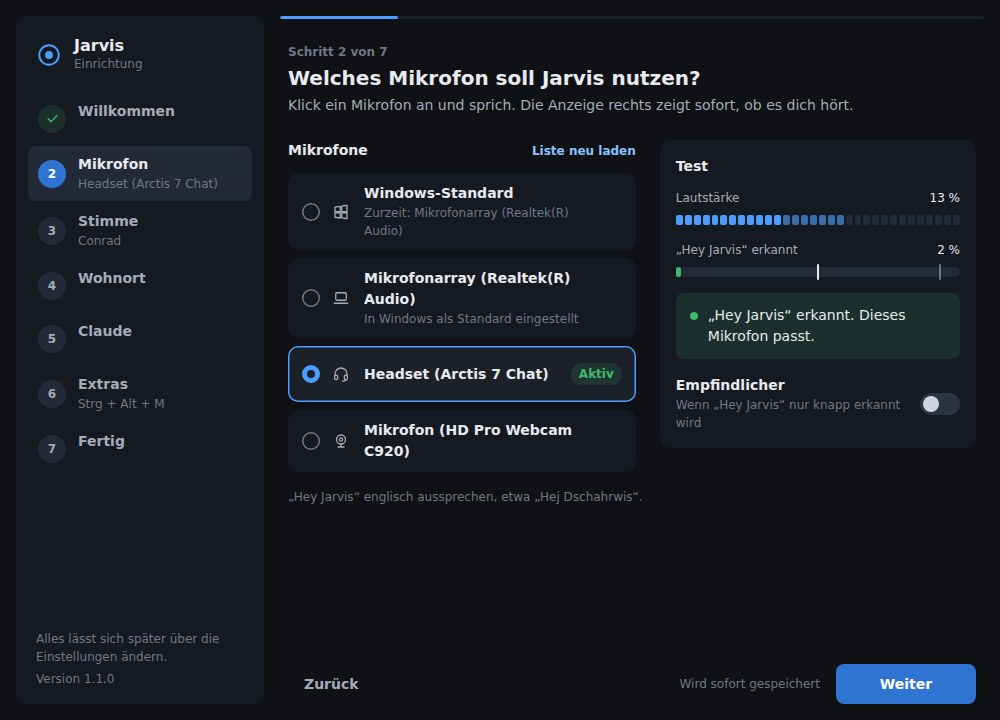
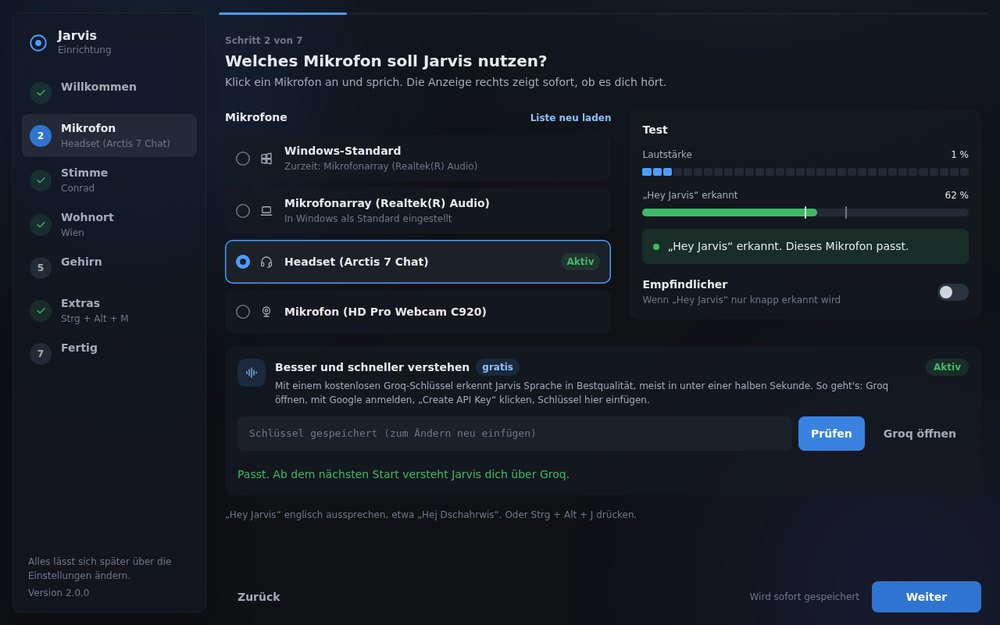
Anleitung und README für Jarvis 2, neue Bilder
ANLEITUNG.md in vier Schritten: EXE, gratis Groq-Schlüssel,
ElevenLabs Starter, Schlüssel in der Einrichtung. Dazu Bedienung im
Hintergrund (Strg+Alt+J, Anzeige oben, Fenster), Befehlsliste und
Hilfe bei Problemen. README beschreibt den neuen Ablauf, Kosten,
Einstellungen und die Windows-Einbindung. Bilder zeigen das neue
HUD-Fenster und die Einrichtung mit Groq und Premium-Stimmen.

Claude-Session: https://claude.ai/code/session_01SmtJ1qc8wnYu9sLYM9z56c

diff --git a/README.md b/README.md
@@ -1,150 +1,107 @@
 # Jarvis
 
-Dein eigener Sprachassistent wie bei Iron Man: Du sagst "Hey Jarvis", sprichst deinen Befehl, Claude Code erledigt ihn auf deinem PC, und Jarvis antwortet mit einer menschlichen Stimme. Dazu gibt es ein aufgeräumtes Fenster mit Unterhaltung.
+Dein eigener J.A.R.V.I.S. für Windows: Du sagst „Hey Jarvis“ oder drückst Strg + Alt + J, sprichst deinen Befehl, und Jarvis erledigt ihn auf deinem PC. Er antwortet wie der Butler aus Iron Man, mit einer menschlichen Stimme. Er läuft unsichtbar im Hintergrund, mit einer kleinen Anzeige oben am Bildschirm und einem großen HUD-Fenster auf Wunsch.
 
-**Schnellstart:** [JarvisSetup.exe](https://github.com/georghatzmann-bit/vanity-/releases/latest/download/JarvisSetup.exe) laden, doppelklicken, die Einrichtung durchklicken. Mehr in der [ANLEITUNG.md](ANLEITUNG.md).
+**Schnellstart:** [JarvisSetup.exe](https://github.com/georghatzmann-bit/vanity-/releases/latest/download/JarvisSetup.exe) laden, doppelklicken, die Einrichtung durchklicken. Schritt für Schritt in der [ANLEITUNG.md](ANLEITUNG.md).
 
 ![Das Jarvis-Fenster](docs/bilder/hauptfenster.jpg)
 
 ```
-Mikrofon → "Hey Jarvis" (openWakeWord, lokal)
-         → Sprache zu Text (faster-whisper, lokal)
-         → schnelle Befehle direkt (Uhrzeit, Lautstärke, Musik, Stopp)
-         → alles andere: Claude Code (dein Claude Pro Abo), Antwort wird gestreamt
-         → Jarvis-Stimme (Microsoft Neural über edge-tts, gratis), Satz für Satz
-         → Jarvis-Fenster, Tray-Icon, Alexa über Home Assistant
+Mikrofon → "Hey Jarvis" (openWakeWord, lokal) oder Strg+Alt+J
+         → Satzende per Silero VAD (lokal)
+         → Sprache zu Text: Groq Whisper large-v3-turbo (gratis Schlüssel), Ersatz faster-whisper lokal
+         → Sofort-Befehle direkt: Programme öffnen/schließen/installieren, Gaming-Modus, Lautstärke, Musik, Uhrzeit
+         → alles andere: Claude Code (dein Claude-Pro-Abo), Antwort wird gestreamt
+         → Stimme: ElevenLabs (Premium, Streaming), Ersatz Microsoft Neural (gratis), offline Piper
+         → Anzeige oben am Bildschirm, HUD-Fenster, Tray-Symbol, Alexa über Home Assistant
 ```
 
 ## Was Jarvis kann
 
-- **Sprache und Tippen:** "Hey Jarvis" plus Befehl, oder auf den Kreis im Fenster klicken (dann hört Jarvis sofort zu), oder rechts unten tippen. Beispiel-Befehle zum Anklicken stehen in der leeren Unterhaltung.
-- **Schnelle Antworten:** Jarvis spricht den ersten Satz, während Claude noch am Rest schreibt. Braucht Claude länger, sagt Jarvis "Einen Moment, Sir."
-- **Sofort-Befehle ohne Claude:** Uhrzeit, Datum, lauter/leiser, Musik pausieren/weiter/nächstes Lied, "Stopp", "Mikrofon aus", "Neue Unterhaltung".
-- **Unterbrechen:** "Hey Jarvis" unterbricht eine laufende Antwort, der Stopp-Knopf, Esc und ein Klick auf den Kreis auch.
-- **PC-Aufgaben über Claude:** Programme und Webseiten öffnen, Dateien finden, Websuche, Wetter, Bildschirm vorlesen, Erinnerungen, Gaming-Modus, Morgen-Briefing.
-- **Erst fragen:** Löschen (nur in den Papierkorb), Installieren und Nachrichten verschicken macht Jarvis erst nach deinem "Ja".
-- **Alexa und Smart Home** über Home Assistant (optional).
-- **Jarvis-Fenster** mit Zuständen (bereit, hört zu, denkt nach, spricht, Mikrofon aus), Unterhaltung, Wetter, Uhr, Tray-Icon und Autostart.
-- **Grafische Einrichtung** beim ersten Start: Mikrofon mit Pegel und Hey-Jarvis-Test (zeigt, welches Mikrofon Windows als Standard nimmt), Stimmen zum Anhören, Wohnort mit Wetter-Vorschau, Claude-Prüfung mit Installieren/Anmelden-Knopf und Claudes genauer Meldung, Antwort-Tempo, Stumm-Taste, Autostart, Alexa. Jeder Schritt speichert sofort. Später über "Einstellungen" oben rechts.
+- **Immer da, nie im Weg:** Autostart unsichtbar (nur das Symbol neben der Uhr). Beim Zuhören und Sprechen erscheint oben in der Mitte eine kleine Anzeige, durchklickbar und ohne den Fokus zu stehlen. Bei Vollbild-Spielen und im Gaming-Modus bleibt sie weg.
+- **Wie Jarvis aus dem Film:** kurz, ruhig, trockener britischer Humor, kein „Als KI …“, kein „Möchtest du, dass ich …?“. Für dich ist er einfach Jarvis, Claude bleibt unsichtbar.
+- **Handelt statt zu fragen:** Programme öffnen, schließen und installieren (winget), Windows einstellen, Dateien ordnen, im Web nachsehen. Nur vor Löschen (Papierkorb), Deinstallieren, Herunterfahren, Senden in deinem Namen und Bezahlen fragt er einmal nach. Administratorrechte holt er sich über die normale Windows-Abfrage.
+- **Sofort-Befehle ohne Claude** (unter einer Sekunde): „Öffne Spotify“ (Startmenü-Index), „Schließ Discord“, „Installier mir Steam“ (im Hintergrund, mit Ansage), „Gaming-Modus an“, „Zeig dich“, „Sperr den PC“, „Öffne Downloads“, Lautstärke, Musik, Uhrzeit, Datum, „Stopp“.
+- **Gaming-Modus:** Energieplan Höchstleistung, ausgewählte Programme zu, Jarvis selbst mit niedriger Priorität und ohne Einblendungen.
+- **Schnell:** Datum und Uhrzeit gehen mit jeder Nachricht an Claude (kein Umweg), `--effort low`, der erste Satz wird gesprochen, während Claude noch schreibt, ElevenLabs beginnt nach 0,25 s Ton zu sprechen.
+- **HUD-Fenster:** animierter Kern (Wellen beim Zuhören, Radar beim Nachdenken, Stimm-Kranz beim Sprechen), Untertitel, System-Anzeige, Erinnerungen von heute, Verlauf, Gaming-Schalter.
+- **Grafische Einrichtung:** Mikrofon mit Pegel und Hey-Jarvis-Test, Groq-Schlüssel, Premium-Stimmen mit Hörproben (auch deutsche Stimmen aus der ElevenLabs-Bibliothek), Wohnort mit Wetter, Gehirn-Prüfung, Stumm-Taste, Autostart, Alexa.
+- **Selbsttest** (`werkzeuge\Selbsttest.bat`) und Protokoll (`logs\jarvis.log`).
 
-| Einrichtung: Mikrofon | Einrichtung: fertig |
+| Einrichtung: Mikrofon | Einrichtung: Stimme |
 |---|---|
-| ![Mikrofon wählen](docs/bilder/einrichtung-mikrofon.jpg) | ![Zusammenfassung](docs/bilder/einrichtung-fertig.jpg) |
-- **Selbsttest** (`werkzeuge\Selbsttest.bat`) und Logdatei (`logs\jarvis.log`).
+| ![Mikrofon wählen](docs/bilder/einrichtung-mikrofon.jpg) | ![Premium-Stimmen](docs/bilder/einrichtung-stimme.jpg) |
 
-## Die Startdateien
+## Kosten
 
-Im Alltag brauchst du nur **`Jarvis.bat`** oder das Jarvis-Symbol auf dem Desktop. `Jarvis.bat` installiert beim ersten Mal alles (und nach Updates, wenn sich die Pakete geändert haben), legt das Desktop-Symbol an und öffnet beim allerersten Start die Einrichtung.
-
-Für Sonderfälle liegen im Ordner `werkzeuge`:
-
-| Datei | Was sie macht |
-|---|---|
-| `Einrichtung.bat` | Einrichtung öffnen (wie "Einstellungen" im Fenster) |
-| `Selbsttest.bat` | Prüft alles und sagt, was zu tun ist |
-| `Mikrofon-Test.bat` | Mikrofone, Pegel und "Hey Jarvis"-Erkennung live in der Konsole |
-| `Claude-Test.bat` | Zeigt, welches Claude-Modell antwortet |
-| `Tippen.bat` | Tippen statt sprechen, im Konsolenfenster |
-| `Konsole.bat` | Sprachsteuerung ohne Fenster |
-| `Neu-installieren.bat` | Alle Pakete frisch installieren |
-
-`Jarvis.bat` versteht auch alle Optionen direkt, zum Beispiel `Jarvis.bat --silent` (nicht vorlesen) oder `Jarvis.bat -v` (alle Details).
-
-## Jarvis reagiert nicht?
-
-Öffne oben rechts die Einstellungen, Schritt Mikrofon (oder `werkzeuge\Mikrofon-Test.bat`). Das zeigt einen Live-Pegel und ob "Hey Jarvis" ankommt:
-
-- **Der Pegel bleibt bei 0:** Windows blockiert das Mikrofon. Öffne *Einstellungen > Datenschutz und Sicherheit > Mikrofon* und schalte "Desktop-Apps den Zugriff auf das Mikrofon erlauben" ein.
-- **Der Pegel bewegt sich kaum, wenn du sprichst:** Es ist das falsche Mikrofon. Wähle in der Einrichtung ein anderes.
-- **Der Pegel bewegt sich, aber "Hey-Jarvis" bleibt niedrig:** Sprich "Hey Jarvis" englisch aus ("Hey Dschaarwis"). Wenn der beste Wert bei etwa 0.3 bis 0.5 landet, schalte in der Einrichtung "empfindlicher" ein (das setzt `threshold = 0.35`).
-
-Im Konsolenfenster zeigt Jarvis "fast erkannt: 0.38" an, wenn er dich knapp nicht verstanden hat.
-
-## Claude lehnt ab?
-
-Manchmal schlägt Claudes Sicherheitsfilter fälschlich an, sogar bei "hi". Jarvis fängt das so ab:
-
-1. Claude Code startet für Jarvis ohne deine persönlichen Skills, Plugins und CLAUDE.md-Dateien (`isolated = true`), und Jarvis bekommt nur die Werkzeuge, die er braucht.
-2. Lehnt ein Modell ab, versucht Jarvis automatisch das nächste aus `models` (Sonnet, Haiku, Opus). Im Fenster steht dann zum Beispiel "sonnet hat abgelehnt, versuche haiku".
-3. Lehnen alle ab, versucht Jarvis dieselben Modelle mit einer ganz kurzen Persönlichkeit ("einfacher Modus").
-4. Was funktioniert hat, merkt sich Jarvis zwölf Stunden lang, damit die nächste Antwort nicht wieder alle Versuche braucht.
-5. Geht gar nichts, sagt Jarvis es auf Deutsch. `werkzeuge\Claude-Test.bat` zeigt dann eine Tabelle, welches Modell mit und ohne deine Einstellungen antwortet.
-
-Auch andere Probleme sagt Jarvis klar an: Pro-Kontingent aufgebraucht, nicht angemeldet, kein Internet, Claude überlastet.
+- **Claude-Pro-Abo:** das Gehirn.
+- **Groq:** gratis (großzügiges Tageslimit, darüber übernimmt der eigene PC).
+- **ElevenLabs:** optional, ab etwa 6 $ im Monat (Starter). Ohne spricht die gratis Microsoft-Stimme.
 
 ## Anpassen
 
 Das Wichtigste stellst du in der Einrichtung ein. Alles steht in `config.toml` (Vorlage mit Erklärungen: `config.example.toml`):
 
-- **Wohnort** für das Wetter: `ort` unter `[ich]`.
-- **Stimme:** `voice` unter `[tts]`, z. B. `de-DE-KillianNeural` oder `de-DE-FlorianMultilingualNeural`. Mit `rate` und `pitch` klingt sie schneller, langsamer, tiefer.
-- **Empfindlichkeit:** `threshold` unter `[wakeword]`.
-- **Mikrofon:** am einfachsten in der Einrichtung.
-- **Stumm-Taste:** `hotkey` unter `[mute]`, z. B. `"f9"`. Jarvis schluckt die Tastenkombination, sie tippt also nichts ins offene Programm.
-- **Genauigkeit:** `model = "medium"` unter `[stt]` versteht besser, ist aber langsamer.
-- **"Einen Moment, Sir":** `ack_after_seconds` unter `[answer]` (0 = nie).
-- **Fenster:** `[gui]`, z. B. `close_to_tray = true`, damit Schließen Jarvis nur ins Tray-Icon versteckt.
-- **Gaming-Modus:** `close_apps` unter `[gaming]`.
-- **Persönlichkeit:** `jarvis_home/CLAUDE.md` beschreibt, wie Jarvis redet und welche Befehle er kennt.
+- `[stt]` `groq_key`, `engine = "auto" | "groq" | "lokal"`
+- `[tts]` `engine = "elevenlabs" | "edge" | "windows"`, `elevenlabs_key`, `elevenlabs_voice`, `elevenlabs_model`
+- `[mute]` `hotkey` (Stumm), `listen_hotkey` (Zuhören, Standard Strg+Alt+J)
+- `[listen]` `silence_seconds` (Wartezeit nach dem letzten Wort), `vad`
+- `[gui]` `start_hidden`, `close_to_tray`, `overlay`
+- `[brain]` `models`, `effort`, `disallowed_tools`
+- `[gaming]` `close_apps`, `power_plan`
+- `jarvis_home/CLAUDE.md`: Jarvis' Persönlichkeit und seine Befehle
+
+Ältere `config.toml` werden beim Start einmalig angepasst (`[intern] config_version`).
 
 ## Jarvis-Befehle für Claude
 
-Claude steuert die Jarvis-Extras über kleine Befehle, die du auch selbst ausprobieren kannst (im Jarvis-Ordner, `"%LOCALAPPDATA%\Jarvis\venv\Scripts\python.exe" -m jarvis.tool hilfe`):
+```
+oeffnen "<name>"   schliessen "<name>"   programme [filter]
+installieren "<name|winget-id>"          deinstallieren <id>  (erst nach "Ja")
+admin "<PowerShell-Befehl>"              (Windows fragt; Löschen & Co. erst nach "Ja")
+papierkorb "<pfad>"                      (erst nach "Ja")
+erinnern "in 20 minuten" "Tee"   erinnerungen   erinnerung-loeschen <id>
+medien pause|weiter|naechstes|voriges   lautstaerke 30|lauter|leiser|stumm
+bildschirm   gaming an|aus   alexa-sagen <raum> "<text>"   smarthome geraete|an|aus|status
+```
 
-```
-erinnern "in 20 minuten" "Tee"     erinnerungen      erinnerung-loeschen <id>
-medien pause|weiter|naechstes|voriges                 lautstaerke lauter|leiser|stumm
-bildschirm                          gaming an|aus
-papierkorb "<pfad>"                 installieren <winget-id>     (beide erst nach "Ja")
-alexa-sagen <raum> "<text>"         alexa-geraete
-smarthome geraete|an|aus|status <gerät>
-```
+Zum Ausprobieren im Jarvis-Ordner: `"%LOCALAPPDATA%\Jarvis\venv\Scripts\python.exe" -m jarvis.tool hilfe`
 
 ## Sicherheit
 
-- Claude darf ohne Nachfrage Programme öffnen, Dateien lesen und schreiben und im Web suchen.
-- Löschen, Formatieren, Herunterfahren und direktes Installieren sind unter `disallowed_tools` gesperrt. Stattdessen gibt es `papierkorb` und `installieren`, die erst etwas tun, wenn dein letzter Satz ein "Ja" war.
-- Der Web-Eingang für Home Assistant ist aus, bis du ihn mit einem eigenen Token einschaltest.
-- Wake Word und Spracherkennung laufen lokal. Nur der erkannte Text geht an Claude.
+- Löschen, Formatieren, Herunterfahren und Deinstallieren sind für Claude direkt gesperrt (`disallowed_tools`). Dafür gibt es `papierkorb` und `deinstallieren`, die erst nach deinem „Ja“ etwas tun. Auch `admin` verlangt bei solchen Befehlen ein „Ja“.
+- Ganze Laufwerke, dein Benutzerordner sowie Desktop, Dokumente und Downloads selbst kommen nie in den Papierkorb.
+- Die Einrichtung öffnet nur die Anmeldeseiten von ElevenLabs, Groq und Claude.
+- Wake Word und Satzende laufen lokal. An Groq geht nur die Aufnahme nach „Hey Jarvis“, an Claude nur der erkannte Text.
 
 ## Windows-Details
 
-- Die Python-Umgebung liegt unter `%LOCALAPPDATA%\Jarvis\venv`, nicht im Jarvis-Ordner. So lädt OneDrive nicht 1 GB hoch und sperrt beim Installieren keine Dateien.
-- Es läuft immer nur ein Jarvis. Ein zweiter Start meldet "Jarvis läuft schon". Nach der Einrichtung wartet der neue Jarvis kurz, bis der alte zu ist.
-- Die Installation (`werkzeuge\installieren.ps1`) schreibt alles nach `%LOCALAPPDATA%\Jarvis\installation.log`. Sie legt `Jarvis.lnk` auf dem Desktop und im Startmenü an (minimiert gestartet, damit kein Konsolenfenster aufblitzt).
-- Fällt das Mikrofon aus (abgesteckt, Ruhezustand), liest Jarvis die Geräteliste neu ein und versucht es immer wieder. Ist dein Mikrofon weg, nimmt er so lange das Windows-Standardmikrofon.
-- Startet Claude ein Programm (etwa Notepad), wartet Jarvis nicht, bis es wieder zu ist.
-- Eine alte `config.toml` behält deine Einstellungen. Die Listen `allowed_tools` und `disallowed_tools` werden mit den neuen Vorgaben zusammengelegt, damit neue Sperren auch bei dir greifen.
-- Windows-Pfade in `config.toml` in einfache Anführungszeichen setzen: `claude_path = 'C:\Users\Georg\...'`.
-
-## Grenzen
-
-- Eine Antwort von Claude dauert ein paar Sekunden, weil jede Anfrage übers Internet geht. Sofort-Befehle sind sofort da.
-- Claude Pro hat ein Nutzungslimit pro 5 Stunden.
-- Ohne Internet hört Jarvis zu und erledigt Sofort-Befehle, Claude und die Microsoft-Stimme gehen dann nicht (Jarvis nimmt dann die Windows-Stimme).
-- Die echte Filmstimme ist nicht dabei. Conrad klingt aber sehr nach Butler.
+- Installiert nach `%LOCALAPPDATA%\Programs\Jarvis`, die Python-Umgebung liegt unter `%LOCALAPPDATA%\Jarvis\venv`. Keine Admin-Rechte nötig.
+- Start über `pythonw.exe Jarvis.pyw`: kein Konsolenfenster, eigenes Symbol, eigene Taskleisten-Gruppe (`Jarvis.Assistent`). Autostart über `HKCU\...\Run` mit `--hintergrund`.
+- Es läuft immer nur ein Jarvis. Ein zweiter Start holt das Fenster des laufenden nach vorn.
+- Der Build (`.github/workflows/setup-exe.yml`) installiert die EXE auf einem echten Windows still zur Probe, prüft Startmenü-Suche, die Anzeige, den unsichtbaren Start, den zweiten Start und die Deinstallation, und veröffentlicht sie dann als Release.
 
 ## Für Entwickler
 
 ```
 jarvis/
-  __main__.py     Start, Modi (Fenster, Konsole, Text, Tests), erster Start -> Einrichtung
-  setup_wizard.py Einrichtung (Python-Seite von gui/web/setup.html)
-  assistant.py    Kern: Befehl annehmen, Sofort-Befehle, Claude fragen, sprechen
+  __main__.py     Start, Modi (Fenster, Hintergrund, Konsole, Text, Tests), erster Start -> Einrichtung
+  assistant.py    Kern: Befehl annehmen, Sofort-Befehle, Claude fragen, sprechen, Gaming-Modus
   brain.py        Claude Code headless mit Streaming, Modell-Fallback, Fehlerarten
-  voice.py        Sprachschleife: Wake Word, Aufnahme, Unterbrechen
-  audio.py stt.py tts.py text.py   Mikrofon, Whisper, Stimme, Satz-Zerlegung
-  intents.py      Sofort-Befehle ohne Claude
-  tool.py         python -m jarvis.tool ... (für Claude)
-  pc.py reminders.py homeassistant.py server.py   PC-Aktionen, Erinnerungen, Alexa, Web-Eingang
+  apps.py         Programme: Startmenü-Index, bekannte Apps, winget, Schließen
+  voice.py audio.py stt.py   Sprachschleife, Mikrofon, Silero VAD, Groq und faster-whisper
+  tts.py elevenlabs.py       Stimme: ElevenLabs-Streaming, Microsoft, Piper, Windows
+  overlay.py      Anzeige oben am Bildschirm (Layered Window, Pillow)
+  desktop.py      Windows-Einbindung: AppUserModelID, Symbol, zweiter Start
+  intents.py tool.py pc.py reminders.py homeassistant.py server.py
   gui/app.py      Fenster (pywebview), Api für die Seite, Ereignis-Brücke
-  gui/web/        base.css                        gemeinsame Farben, Schrift, Knöpfe
-                  index.html app.js style.css     Hauptfenster (Kreis als Canvas)
+  gui/web/        index.html app.js style.css     HUD-Fenster (Kern als Canvas)
                   setup.html setup.js setup.css   Einrichtung (Api: setup_wizard.SetupApi)
-                  Beide Seiten laufen auch im normalen Browser als Demo (ohne Jarvis-Kern).
-  tray.py autostart.py selftest.py simulate.py logsetup.py
+                  Beide Seiten laufen auch im normalen Browser als Demo.
+  setup_wizard.py tray.py autostart.py selftest.py simulate.py logsetup.py
 jarvis_home/CLAUDE.md   Jarvis' Persönlichkeit
-tests/                  python -m pytest
+installer/      Inno-Setup-Skript und Windows-Proben für den Build
+tests/          python -m unittest discover -s tests
 ```
 
-Die Tests laufen ohne Mikrofon und ohne echtes Claude (`tests/helpers.py` enthält ein nachgebautes `claude`). `simulate.py` spielt die ganze Kette mit erzeugter Sprache durch, das nutzt auch der Selbsttest.
+Die Tests laufen ohne Mikrofon, ohne echtes Claude und ohne Internet (nachgebautes `claude`, ElevenLabs und Groq).

diff --git a/ANLEITUNG.md b/ANLEITUNG.md
@@ -1,96 +1,91 @@
-# Jarvis in 3 Schritten
+# Jarvis 2 in 4 Schritten
 
-Diese Anleitung ist für dich, Georg. Du brauchst nur einen Doppelklick.
+Diese Anleitung ist für dich, Georg. Jarvis läuft danach unsichtbar im Hintergrund und ist immer da, wenn du „Hey Jarvis“ sagst.
 
-## 1. JarvisSetup.exe laden
+## 1. JarvisSetup.exe laden und starten
 
-1. Falls ein älteres Jarvis läuft: unten rechts neben der Uhr Rechtsklick auf das Jarvis-Symbol > Jarvis beenden.
+1. Falls ein älteres Jarvis läuft: unten rechts neben der Uhr Rechtsklick auf das Jarvis-Symbol > **Jarvis beenden**.
 2. Diese Datei laden: https://github.com/georghatzmann-bit/vanity-/releases/latest/download/JarvisSetup.exe
+3. Doppelklick auf `JarvisSetup.exe`. Fragt Windows nach („Der Computer wurde durch Windows geschützt“): **Weitere Informationen** > **Trotzdem ausführen**. Das kommt, weil der Installer nicht mit einem gekauften Zertifikat signiert ist.
+4. Den Haken bei **„Jarvis mit Windows starten“** drin lassen. Admin-Rechte braucht der Installer nicht. Beim ersten Mal dauert er ein paar Minuten.
 
-## 2. Doppelklick auf JarvisSetup.exe
+Deine Einstellungen von vorher bleiben erhalten.
 
-Der Installer richtet alles selbst ein: Python, Spracherkennung, Stimmen, Desktop-Symbol und auf Wunsch den Autostart. Admin-Rechte braucht er nicht. Beim ersten Mal dauert das ein paar Minuten.
+## 2. Gratis-Schlüssel für die Spracherkennung (Groq, 2 Minuten)
 
-Fragt Windows nach, weil die Datei aus dem Internet kommt: Beim blauen Fenster "Der Computer wurde durch Windows geschützt" auf **"Weitere Informationen"** und dann **"Trotzdem ausführen"** klicken. Das kommt, weil der Installer nicht mit einem gekauften Zertifikat signiert ist.
+Damit versteht Jarvis dich viel besser und schneller. Kostet nichts.
 
-Deinstallieren geht wie bei jedem Programm: Windows-Einstellungen > Apps > Jarvis > Deinstallieren.
+1. https://console.groq.com/keys öffnen und mit Google anmelden.
+2. **Create API Key** klicken, einen Namen eingeben (zum Beispiel „Jarvis“), **Submit**.
+3. Den Schlüssel (beginnt mit `gsk_`) kopieren. Er wird nur einmal angezeigt.
 
-(Ohne Installer geht es auch: die ZIP von https://github.com/georghatzmann-bit/vanity-/archive/refs/heads/claude/project-thread-0revfw.zip entpacken und `Jarvis.bat` doppelklicken.)
+## 3. Premium-Stimme (ElevenLabs, etwa 6 $ im Monat)
 
-## 3. Die Einrichtung
+Das ist der große Unterschied: Jarvis klingt dann wie ein Mensch.
 
-Beim ersten Start öffnet sich die Einrichtung von selbst. Sie führt dich durch alles, du klickst nur:
+1. https://elevenlabs.io öffnen und ein Konto anlegen.
+2. Unter **Upgrade** das Abo **Starter** wählen (etwa 6 $ im Monat, reicht für mehrere hundert Antworten).
+3. https://elevenlabs.io/app/settings/api-keys öffnen > **Create API Key** > Namen eingeben > ohne Einschränkungen erstellen.
+4. Den Schlüssel (beginnt mit `sk_`) kopieren.
 
-1. **Mikrofon:** Mikrofon anklicken, reinsprechen, der Balken zeigt den Pegel. Sag "Hey Jarvis" (englisch ausgesprochen), dann leuchtet es auf. Ganz oben steht "Windows-Standard" und darunter, welches Mikrofon das gerade ist. Ist es das falsche, klick einfach dein richtiges an. "Aktuell" zeigt, welches Jarvis nimmt.
-2. **Stimme:** Stimmen anhören und die schönste nehmen.
-3. **Wohnort:** für das Wetter.
-4. **Claude:** Jarvis prüft, ob Claude antwortet. Fehlt Claude Code oder bist du nicht angemeldet, gibt es dafür einen Knopf.
-5. **Extras** (alles optional): Stumm-Taste, mit Windows starten, Alexa.
+## 4. Schlüssel in die Einrichtung
 
-Danach startet das Jarvis-Fenster. Die Einrichtung kannst du jederzeit über **Einstellungen** (oben rechts im Jarvis-Fenster) wieder öffnen.
+Die Einrichtung öffnet sich nach der Installation von selbst. Später: Rechtsklick aufs Jarvis-Symbol neben der Uhr > **Einstellungen**.
+
+1. **Mikrofon:** dein Mikrofon anklicken und „Hey Jarvis“ sagen. Darunter den **Groq-Schlüssel** einfügen und **Prüfen** klicken. Es klappt, wenn „Aktiv“ erscheint.
+2. **Stimme:** **Premium** wählen, den **ElevenLabs-Schlüssel** einfügen und **Prüfen** klicken. Dann Stimmen anhören (Play-Knopf) und eine anklicken. **Auf Deutsch** spielt den Begrüßungssatz mit dieser Stimme. Weiter unten gibt es **deutsche Stimmen aus der Bibliothek**: anhören und **Übernehmen**.
+3. **Wohnort**, **Gehirn** (prüft dein Claude-Abo) und **Extras** wie gewohnt.
+
+Zum Schluss **Jarvis starten**.
 
 ## So benutzt du Jarvis
 
-- **"Hey Jarvis"** sagen (englisch ausgesprochen), auf den Ton warten, Befehl auf Deutsch sprechen.
-- Oder auf den **Kreis** in der Mitte klicken: Dann hört Jarvis sofort zu, ganz ohne "Hey Jarvis".
-- Oder unten im Fenster **tippen** und Enter drücken. Solange der Verlauf leer ist, stehen dort Beispiele zum Anklicken.
-- **Strg+Alt+M** schaltet das Mikrofon stumm und wieder an, egal welches Fenster vorne ist. Das geht auch mit dem Mikrofon-Knopf im Fenster.
-- **"Hey Jarvis, Stopp"** oder der Stopp-Knopf unterbricht Jarvis, auch mitten im Satz.
+Jarvis läuft im Hintergrund. Du siehst nur das Symbol unten rechts neben der Uhr.
+
+- **„Hey Jarvis“** sagen (englisch ausgesprochen), kurz warten, Befehl auf Deutsch sprechen.
+- Oder **Strg + Alt + J** drücken: Jarvis hört sofort zu, ganz ohne „Hey Jarvis“.
+- Oben in der Bildschirmmitte erscheint dabei eine kleine **Jarvis-Anzeige**: was du gesagt hast und was Jarvis antwortet. Sie stiehlt keinen Fokus und bleibt bei Vollbild-Spielen und im Gaming-Modus weg.
+- **Das große Jarvis-Fenster** öffnest du mit einem Klick auf das Symbol neben der Uhr, mit einem Doppelklick auf das Desktop-Symbol oder mit „Hey Jarvis, zeig dich“. Schließen versteckt es nur, Jarvis hört weiter zu. Beenden: Rechtsklick aufs Symbol > Jarvis beenden.
+- **Strg + Alt + M** schaltet das Mikrofon stumm und wieder an.
+- **„Stopp“** oder der Stopp-Knopf unterbricht Jarvis sofort.
 
 ## Was du sagen kannst
 
-- "Wie spät ist es?", "Welcher Tag ist heute?" (antwortet sofort, ohne Claude)
-- "Mach die Musik leiser", "Nächstes Lied", "Musik pausieren"
-- "Öffne YouTube", "Starte Spotify"
-- "Wie wird das Wetter morgen?"
-- "Erinnere mich in 20 Minuten an den Tee"
-- "Was steht gerade auf meinem Bildschirm?"
-- "Gaming-Modus an"
-- "Guten Morgen" (kurzes Briefing mit Wetter, Erinnerungen und Schlagzeilen)
-- "Lösch die Datei alt.txt auf dem Desktop": Jarvis fragt erst nach und legt sie nach deinem "Ja" in den Papierkorb.
-- "Neue Unterhaltung" (Jarvis vergisst das bisherige Gespräch)
+Sofort, ohne Wartezeit:
 
-## Was du vielleicht noch willst
+- „Öffne Spotify“, „Starte Discord“, „Mach Steam zu“, „Öffne YouTube“, „Öffne den Ordner Downloads“
+- „Installier mir Spotify“ oder „Lad mir Discord runter“ (Jarvis installiert und meldet sich, wenn es fertig ist)
+- „Gaming-Modus an“ / „Gaming-Modus aus“
+- „Wie spät ist es?“, „Lauter“, „Lautstärke auf 30“, „Nächstes Lied“, „Musik pausieren“
+- „Sperr den PC“, „Zeig dich“, „Versteck dich“
 
-1. **Mikrofon-Zugriff**, falls die Einrichtung sagt, dass nur Stille ankommt: Windows-Einstellungen > Datenschutz und Sicherheit > Mikrofon > "Desktop-Apps den Zugriff auf das Mikrofon erlauben" einschalten.
-2. **WebView2**, falls statt des Fensters eine Meldung kommt, dass es fehlt: https://developer.microsoft.com/microsoft-edge/webview2/ (dort den "Evergreen Bootstrapper" laden und starten). Bei Windows 11 ist es normalerweise schon da.
-3. **Gaming-Modus** (optional): In `config.toml` unter `[gaming]` eintragen, welche Programme dabei zugehen sollen, zum Beispiel `close_apps = ["OneDrive", "Teams"]`.
-4. **Alexa** (optional): siehe unten.
+Mit Nachdenken (ein paar Sekunden):
 
-Im Ordner `werkzeuge` liegen kleine Helfer für Sonderfälle (Selbsttest, Mikrofon-Test, Claude-Test, Neu installieren). Was sie machen, steht in `werkzeuge\LIESMICH.txt`.
+- „Wie wird das Wetter morgen?“, „Was gibt es Neues?“
+- „Erinnere mich in 20 Minuten an den Tee“
+- „Mach den Dunkelmodus an“, „Schalte Bluetooth aus“
+- „Was steht gerade auf meinem Bildschirm?“
+- „Guten Morgen“ (Wetter, Erinnerungen, Schlagzeilen)
+
+Jarvis macht das einfach. Nur vor **Löschen, Deinstallieren, Herunterfahren und Neustarten** und bevor er **in deinem Namen etwas sendet oder kauft**, fragt er einmal nach. Braucht etwas Administratorrechte, zeigt Windows die übliche Abfrage: einmal **Ja** klicken.
+
+## Wenn etwas nicht klappt
+
+- **Jarvis reagiert nicht auf „Hey Jarvis“:** Einstellungen > Mikrofon. Dort siehst du den Pegel und ob „Hey Jarvis“ ankommt. Klappt es nur knapp, „Empfindlicher“ einschalten. Strg + Alt + J geht immer.
+- **Die Stimme klingt wieder nach Computer:** Dann ist das ElevenLabs-Guthaben aufgebraucht oder das Internet weg. Jarvis sagt das einmal an. Unter Einstellungen > Stimme steht, wie viele Zeichen noch übrig sind.
+- **Jarvis versteht dich schlecht:** Prüfen, ob der Groq-Schlüssel unter Einstellungen > Mikrofon „Aktiv“ zeigt. Ohne Groq erkennt dein PC selbst, das ist langsamer und ungenauer.
+- **Jarvis lehnt etwas ab:** Anders formulieren hilft meistens. Unter Einstellungen > Gehirn steht Claudes genaue Meldung mit einem Knopf zum Kopieren.
+- **Mikrofon blockiert** (die Einrichtung meldet absolute Stille): Windows-Einstellungen > Datenschutz und Sicherheit > Mikrofon > „Desktop-Apps den Zugriff auf das Mikrofon erlauben“ einschalten.
+- **Irgendwas anderes:** `werkzeuge\Selbsttest.bat` prüft alles. In `logs\jarvis.log` (im Jarvis-Ordner unter `%LOCALAPPDATA%\Programs\Jarvis`) steht genau, was passiert ist. Beides kannst du Claude im Jarvis-Projekt schicken.
+
+Deinstallieren: Windows-Einstellungen > Apps > Jarvis > Deinstallieren. Das nimmt auch den Autostart mit.
 
 ## Alexa einrichten (optional)
 
 Jarvis spricht über Home Assistant mit deinen Echos. Das kostet nichts, braucht aber einmal etwas Einrichtung:
 
 1. **Home Assistant** installieren, zum Beispiel auf einem Raspberry Pi: https://www.home-assistant.io/installation/
-2. In Home Assistant **HACS** installieren und darüber **"Alexa Media Player"**. Dann mit deinem Amazon-Konto anmelden. Deine Echos erscheinen als `media_player.echo_...`.
+2. In Home Assistant **HACS** installieren und darüber **„Alexa Media Player“**. Dann mit deinem Amazon-Konto anmelden. Deine Echos erscheinen als `media_player.echo_...`.
 3. In Home Assistant unten links auf deinen Namen > **Sicherheit** > **Langlebige Zugriffstoken** > Token erstellen und kopieren.
-4. In der Jarvis-Einrichtung (Einstellungen oben rechts) bei **Extras > Alexa** die Adresse (zum Beispiel `http://homeassistant.local:8123`) und den Token einfügen und auf **Verbindung testen** klicken. Jarvis findet deine Echos, du gibst jedem einen Raum (zum Beispiel "wohnzimmer").
-5. Ausprobieren: "Hey Jarvis, sag im Wohnzimmer Bescheid, dass das Essen fertig ist." oder "Schalte das Wohnzimmerlicht an."
-
-**Umgekehrt, Alexa sagt Jarvis etwas** (für Fortgeschrittene): In `config.toml` unter `[server]` `enabled = true` und ein langes `token` setzen. In Home Assistant in `configuration.yaml`:
-
-```yaml
-rest_command:
-  jarvis:
-    url: "http://DEIN-PC-NAME:8765/befehl"
-    method: POST
-    headers:
-      Authorization: "Bearer DEIN-SERVER-TOKEN"
-    content_type: "application/json"
-    payload: '{"text": "{{ text }}", "alexa": "{{ raum }}"}'
-```
-
-Dann kann eine Home-Assistant-Automation oder ein Skript zum Beispiel `rest_command.jarvis` mit `text: "Gaming-Modus an"` aufrufen. Jarvis erledigt es auf dem PC und antwortet, wenn `raum` gesetzt ist, über das Echo in diesem Raum. Beim ersten Start fragt die Windows-Firewall, ob Jarvis im Heimnetz erreichbar sein darf: "Private Netzwerke" erlauben.
-
-## Wenn etwas nicht klappt
-
-- **Jarvis reagiert nicht auf "Hey Jarvis":** Einstellungen > Mikrofon. Dort siehst du den Pegel und ob "Hey Jarvis" ankommt. Klappt es nur knapp, den Schalter "empfindlicher" einschalten. Zum Ausprobieren geht auch ein Klick auf den Kreis.
-- **Jarvis nimmt das falsche Mikrofon:** Einstellungen > Mikrofon > dein richtiges Mikrofon anklicken (nicht "Windows-Standard"). Es wird sofort gespeichert. Ist es später mal abgesteckt, hört Jarvis so lange über das Standardmikrofon und sagt dir das.
-- **Claude lehnt ab oder meldet einen Fehler:** Jarvis probiert automatisch andere Modelle (Sonnet, Haiku, Opus) und zuletzt einen ganz einfachen Modus. Unter Einstellungen > Claude steht Claudes genaue Meldung mit einem Knopf zum Kopieren. Die kannst du Claude im Jarvis-Projekt schicken.
-- **Jarvis antwortet zu langsam:** Einstellungen > Claude > Antwort-Tempo auf **Schnell** stellen. Dann antwortet Haiku, das ist am schnellsten.
-- **Irgendwas geht nicht und du weißt nicht was:** `werkzeuge\Selbsttest.bat` prüft alles und sagt bei jedem Punkt, was zu tun ist. Den Inhalt von `logs\selbsttest.txt` kannst du Claude im Jarvis-Projekt schicken.
-- **"Jarvis läuft schon":** Jarvis ist schon offen, oft versteckt als Symbol unten rechts neben der Uhr. Dort mit Rechtsklick beenden oder das Fenster öffnen.
-- **Mikrofon abgesteckt:** Jarvis merkt das und versucht es alle paar Sekunden wieder. Steckst du es wieder ein, hört er von selbst weiter zu.
-- **Irgendwas anderes:** In `logs\jarvis.log` steht genau, was passiert ist. Die Datei kannst du Claude schicken.
+4. In der Jarvis-Einrichtung bei **Extras > Alexa** die Adresse (zum Beispiel `http://homeassistant.local:8123`) und den Token einfügen und auf **Verbindung testen** klicken.
+5. Ausprobieren: „Hey Jarvis, sag im Wohnzimmer Bescheid, dass das Essen fertig ist.“
